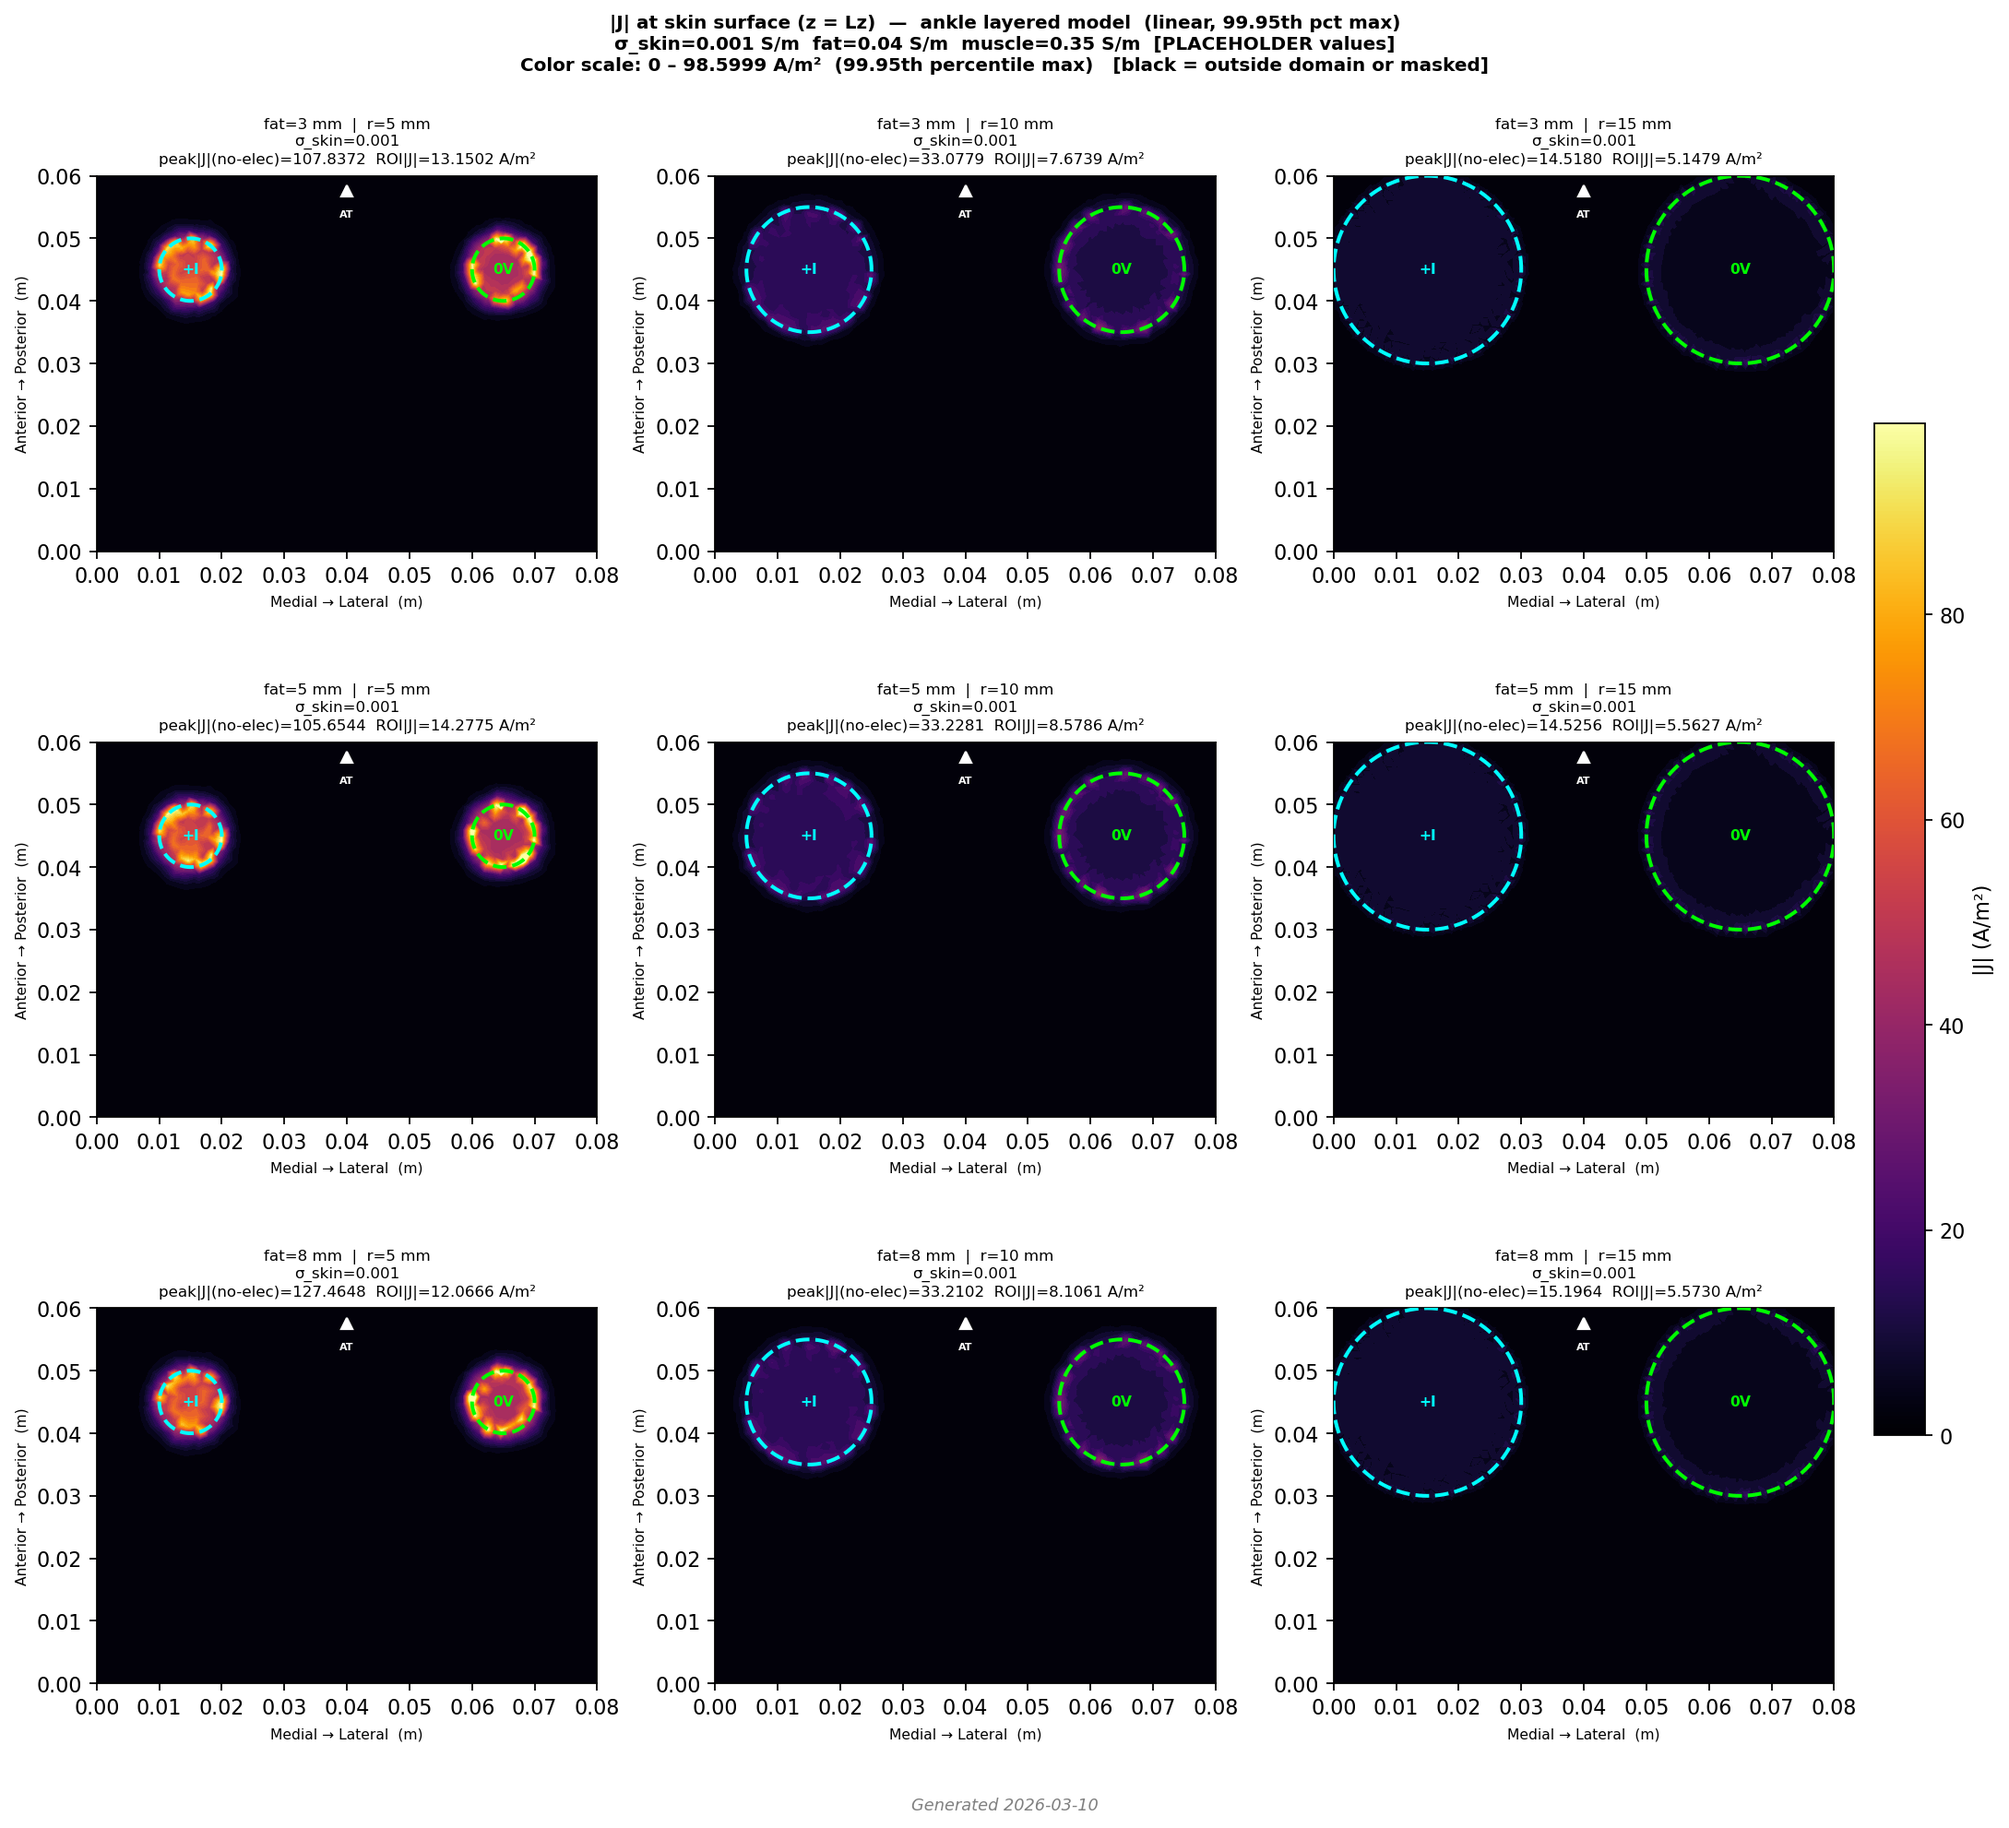
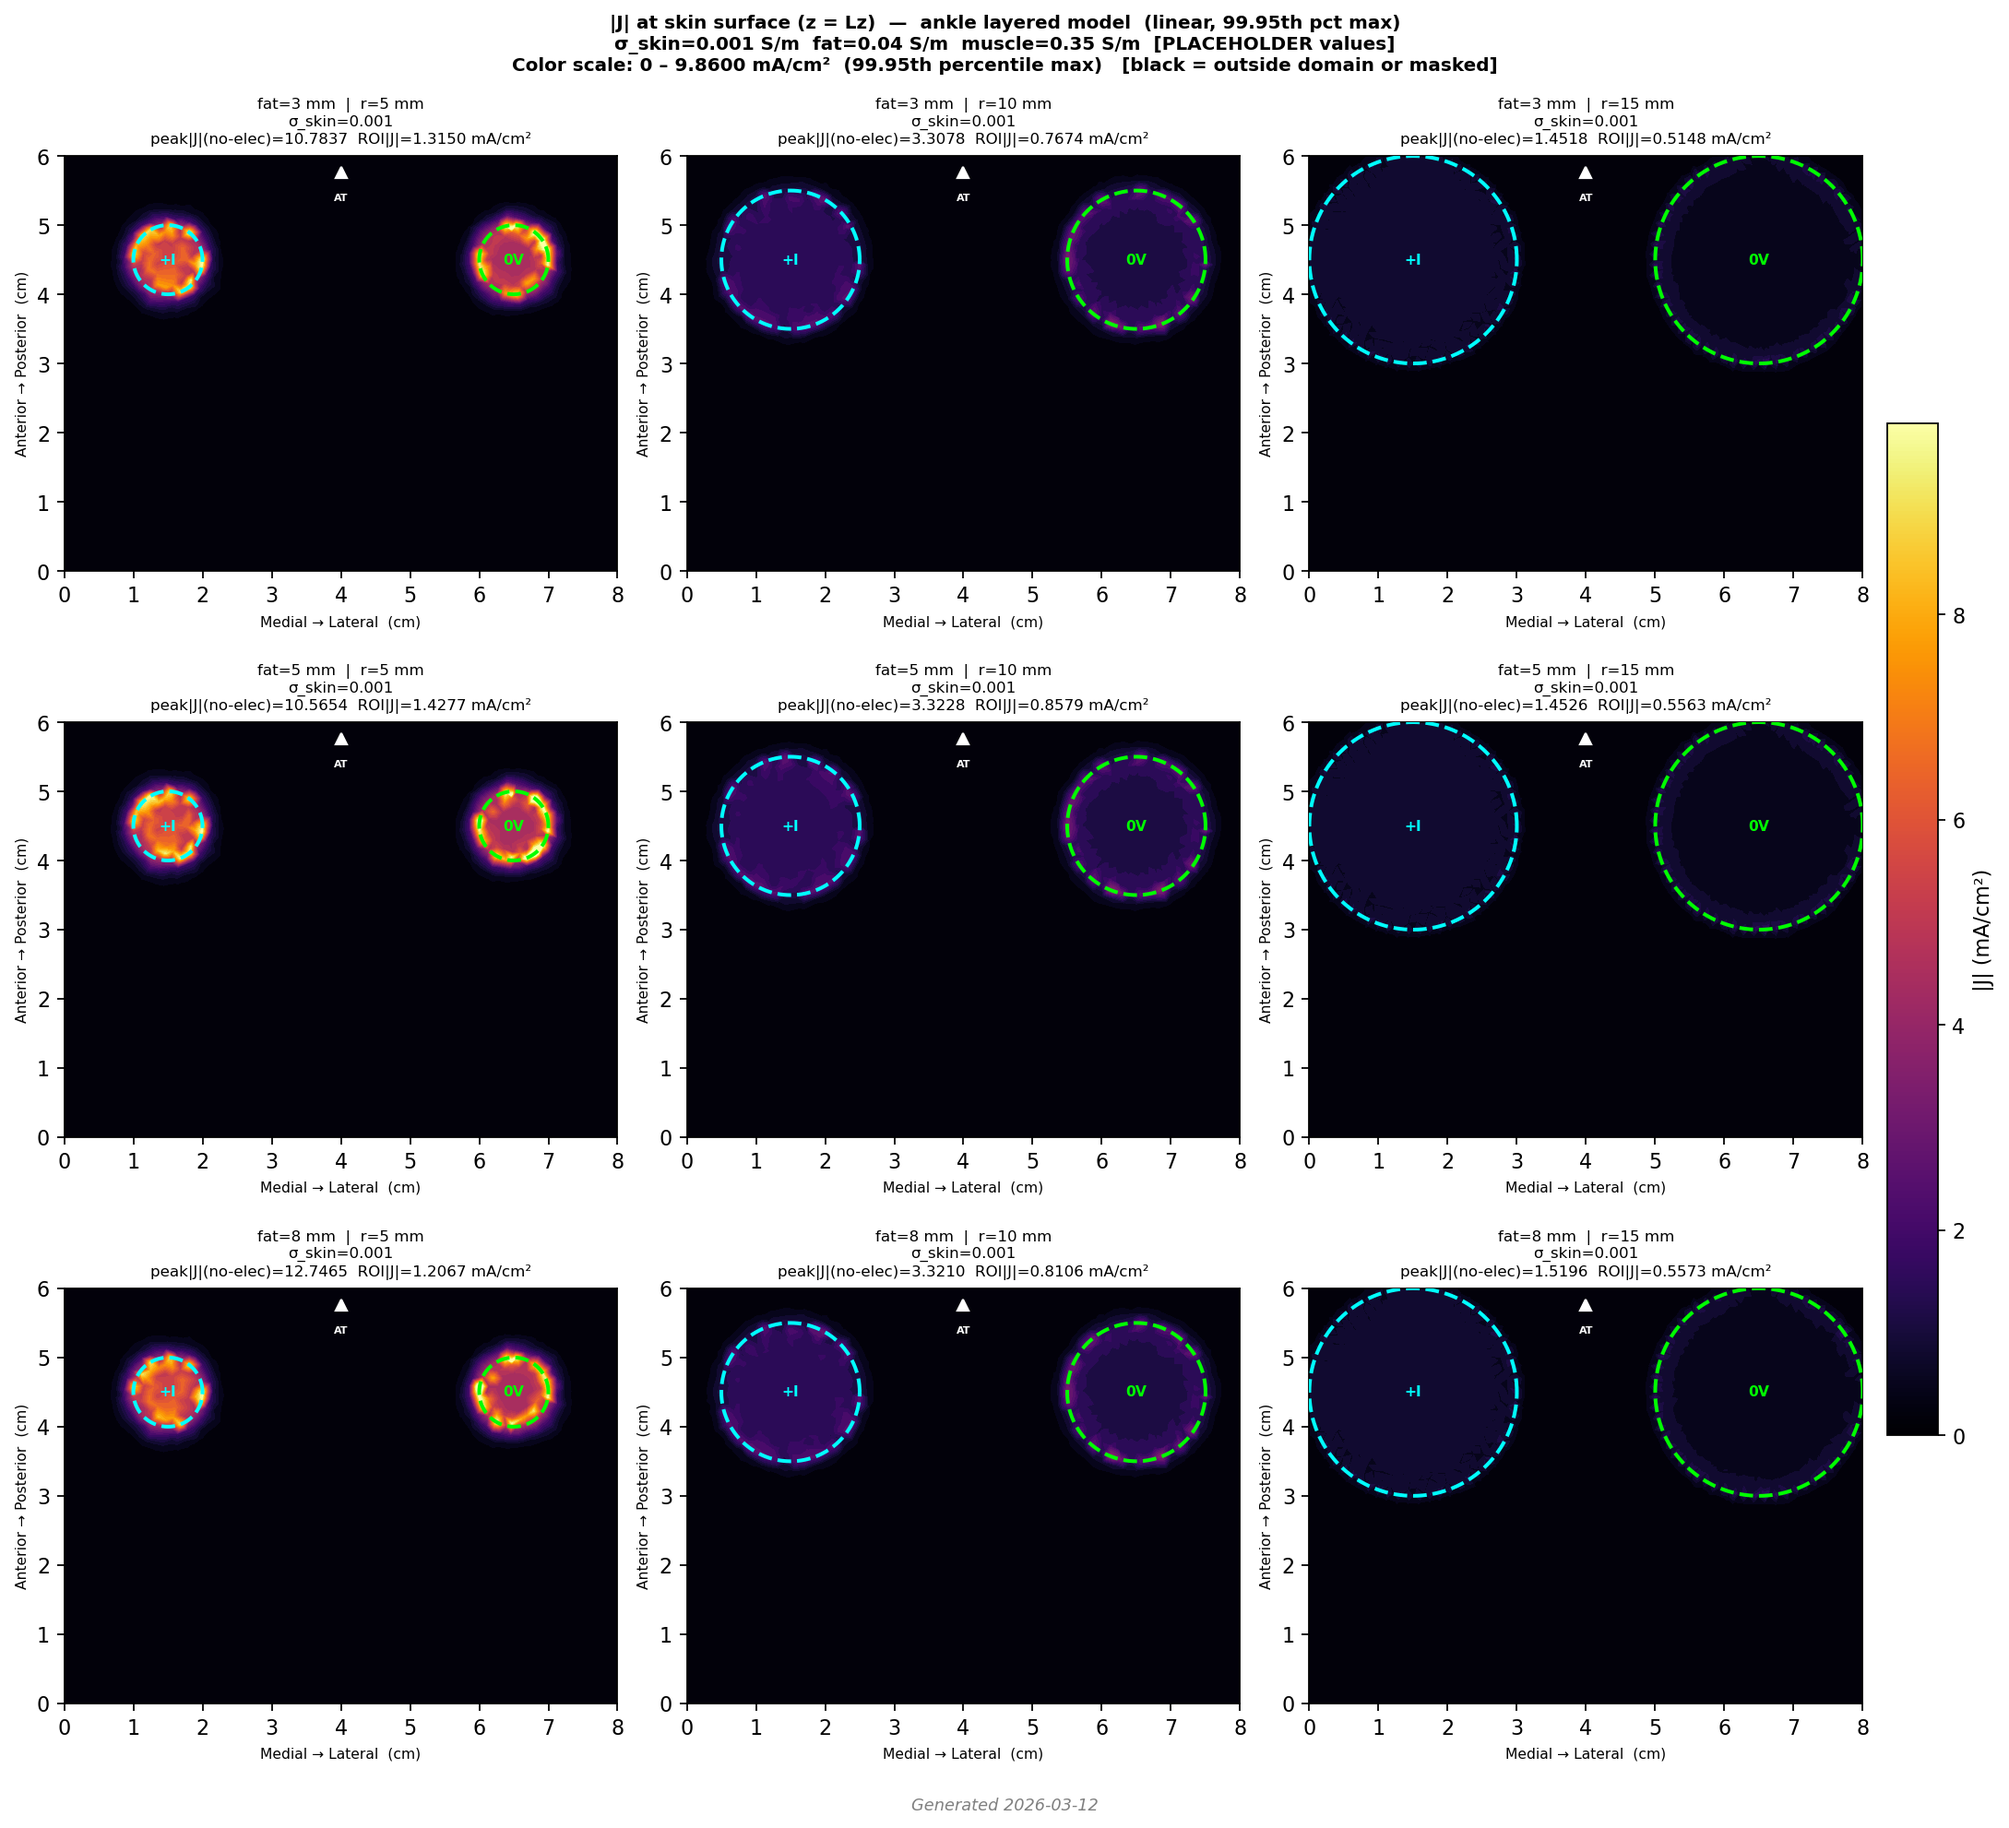
units: cm and mA throughout step03+step04 plots; sigma x-axis in step04
step03:
  - J surface maps, depth slice, model diagram: axes now in cm (not m)
  - J colorbar/titles: A/m² → mA/cm² (×0.1 scale applied to data)
  - summary_metrics: peak J panel in mA/cm²
step04:
  - pressure x-axis: show actual σ_c values in scientific notation, not p01-p15 labels

diff --git a/step03_ankle_layers/plot_layered_results.py b/step03_ankle_layers/plot_layered_results.py
@@ -126,7 +126,7 @@ def plot_J_surface_maps(summary, p):
         # Skin surface: top 20% of skin layer depth (handles uneven top surface)
         _t_skin = p["layers"]["t_skin"]
         mask = pts[:, 2] > (Lz - _t_skin) + _t_skin * 0.80
-        all_J.extend(Jmag[mask].tolist())
+        all_J.extend((Jmag[mask] * 0.1).tolist())  # A/m² → mA/cm²
         meshes[(row["t_fat_mm"], row["elec_r_mm"])] = (pts, Jmag, mask)
 
     if not all_J:
@@ -164,7 +164,7 @@ def plot_J_surface_maps(summary, p):
             f"|J| at skin surface (z = Lz)  —  ankle layered model  {title_suffix}\n"
             f"σ_skin={sig_skin} S/m  fat={p['conductivities']['sigma_fat']} S/m  "
             f"muscle={p['conductivities']['sigma_muscle']} S/m  [PLACEHOLDER values]\n"
-            f"Color scale: {vmin:.2g} – {vmax:.4f} A/m²  "
+            f"Color scale: {vmin:.2g} – {vmax:.4f} mA/cm²  "
             f"({vmax_pct:.2f}th percentile max)   [black = outside domain or masked]",
             fontsize=9, fontweight="bold"
         )
@@ -186,7 +186,7 @@ def plot_J_surface_maps(summary, p):
                 pts, Jmag, smask = meshes[key]
                 xp     = pts[smask, 0]
                 yp     = pts[smask, 1]
-                Jvals  = Jmag[smask].copy()
+                Jvals  = Jmag[smask].copy() * 0.1  # A/m² → mA/cm²
 
                 if mask_fn is not None:
                     r_m   = r_mm / 1000.0
@@ -279,9 +279,10 @@ def plot_J_surface_maps(summary, p):
 
                 ax.set_xlim(0, Lx); ax.set_ylim(0, Ly)
                 ax.set_aspect("equal")
-                # Anatomical direction labels
-                ax.set_xlabel("Medial → Lateral  (m)", fontsize=7)
-                ax.set_ylabel("Anterior → Posterior  (m)", fontsize=7)
+                ax.xaxis.set_major_formatter(plt.FuncFormatter(lambda v, _: f"{v*100:.0f}"))
+                ax.yaxis.set_major_formatter(plt.FuncFormatter(lambda v, _: f"{v*100:.0f}"))
+                ax.set_xlabel("Medial → Lateral  (cm)", fontsize=7)
+                ax.set_ylabel("Anterior → Posterior  (cm)", fontsize=7)
 
                 pk  = row.get("peak_J_skin_no_elec",
                               row.get("peak_J_skin", float("nan")))
@@ -289,13 +290,13 @@ def plot_J_surface_maps(summary, p):
                 ax.set_title(
                     f"fat={tfat:.0f} mm  |  r={r_mm:.0f} mm\n"
                     f"σ_skin={row.get('sigma_skin', sig_skin)}\n"
-                    f"peak|J|(no-elec)={pk:.4f}  ROI|J|={rj:.4f} A/m²",
+                    f"peak|J|(no-elec)={pk*0.1:.4f}  ROI|J|={rj*0.1:.4f} mA/cm²",
                     fontsize=7.5
                 )
 
         sm = plt.cm.ScalarMappable(cmap=_cmap, norm=norm)
         sm.set_array([])
-        fig.colorbar(sm, ax=axes, label="|J| (A/m²)", shrink=0.6, pad=0.01)
+        fig.colorbar(sm, ax=axes, label="|J| (mA/cm²)", shrink=0.6, pad=0.01)
 
         if footer:
             fig.text(0.5, -0.01, footer, ha="center", va="top",
@@ -366,8 +367,8 @@ def plot_summary_metrics(summary, p):
     raw_panels = [
         ("Skin peak |J| (no-electrode, comfort proxy)\n"
          "Smaller electrode → higher peak → more discomfort risk",
-         "peak_J_skin_no_elec",
-         "Peak |J| outside electrode (A/m²)"),
+         "peak_J_skin_no_elec_mAcm2",
+         "Peak |J| outside electrode (mA/cm²)"),
         (f"ROI mean |E|  (efficacy proxy)\n"
          f"Sphere r={roi_r_mm:.0f}mm at {z_tgt_mm:.0f}mm depth",
          "roi_mean_E",
@@ -431,6 +432,9 @@ def plot_summary_metrics(summary, p):
                 if key == "total_current_A_mA":
                     v_raw = r.get("total_current_A")
                     v = v_raw * 1e3 if (v_raw is not None and not (isinstance(v_raw, float) and np.isnan(v_raw))) else None
+                elif key == "peak_J_skin_no_elec_mAcm2":
+                    v_raw = r.get("peak_J_skin_no_elec")
+                    v = v_raw * 0.1 if (v_raw is not None and not (isinstance(v_raw, float) and np.isnan(v_raw))) else None
                 else:
                     v = r.get(key)
                 if v is None or (isinstance(v, float) and np.isnan(v)):
@@ -724,8 +728,10 @@ def plot_depth_slice_E_maps(summary, p):
 
             ax.set_xlim(0, Lx); ax.set_ylim(0, Ly)
             ax.set_aspect("equal")
-            ax.set_xlabel("Medial → Lateral  (m)", fontsize=7)
-            ax.set_ylabel("Anterior → Posterior  (m)", fontsize=7)
+            ax.xaxis.set_major_formatter(plt.FuncFormatter(lambda v, _: f"{v*100:.0f}"))
+            ax.yaxis.set_major_formatter(plt.FuncFormatter(lambda v, _: f"{v*100:.0f}"))
+            ax.set_xlabel("Medial → Lateral  (cm)", fontsize=7)
+            ax.set_ylabel("Anterior → Posterior  (cm)", fontsize=7)
             re_val = row.get("roi_mean_E", float("nan"))
             ax.set_title(
                 f"fat={tfat:.0f} mm  |  r={r_mm:.0f} mm\n"
@@ -894,8 +900,10 @@ def plot_model_diagram(p, summary=None):
 
     ax_side.set_xlim(-0.004, Lx + 0.022)
     ax_side.set_ylim(-0.003, Lz + t_contact + 0.010)
-    ax_side.set_xlabel("Medial → Lateral  (m)", color=TC, fontsize=9)
-    ax_side.set_ylabel("Depth z  (m,  0=base → Lz=skin top)", color=TC, fontsize=9)
+    ax_side.xaxis.set_major_formatter(plt.FuncFormatter(lambda v, _: f"{v*100:.0f}"))
+    ax_side.yaxis.set_major_formatter(plt.FuncFormatter(lambda v, _: f"{v*100:.0f}"))
+    ax_side.set_xlabel("Medial → Lateral  (cm)", color=TC, fontsize=9)
+    ax_side.set_ylabel("Depth z  (cm,  0=base → Lz=skin top)", color=TC, fontsize=9)
     ax_side.set_title(
         "ANATOMY (side view, x–z plane)\n"
         "Cyan/lime arrows = current IN / OUT of tissue",
@@ -965,8 +973,10 @@ def plot_model_diagram(p, summary=None):
     ax_top.set_xlim(-0.002, Lx+0.002)
     ax_top.set_ylim(-0.002, Ly+0.002)
     ax_top.set_aspect("equal")
-    ax_top.set_xlabel("Medial → Lateral  (m)", color=TC, fontsize=9)
-    ax_top.set_ylabel("Anterior → Posterior  (m)", color=TC, fontsize=9)
+    ax_top.xaxis.set_major_formatter(plt.FuncFormatter(lambda v, _: f"{v*100:.0f}"))
+    ax_top.yaxis.set_major_formatter(plt.FuncFormatter(lambda v, _: f"{v*100:.0f}"))
+    ax_top.set_xlabel("Medial → Lateral  (cm)", color=TC, fontsize=9)
+    ax_top.set_ylabel("Anterior → Posterior  (cm)", color=TC, fontsize=9)
     ax_top.set_title(
         f"SKIN SURFACE (top view, z = {Lz*1000:.0f} mm)\n"
         f"Dashed circles = current spreading pattern  |  r = {r_mid_mm:.0f} mm",

diff --git a/step04_pressure/plot_pressure_results.py b/step04_pressure/plot_pressure_results.py
@@ -50,10 +50,10 @@ def main():
     charge_limit      = 1.0     # mC/cm² — irreversible tissue damage
     nerve_thresh_E    = 10.0    # V/m — peripheral nerve activation threshold (literature)
 
-    # x-tick positions: every other label to avoid crowding
+    # x-tick positions: every other point to avoid crowding; show sigma values
     tick_idx  = list(range(0, len(x), 2))
     x_ticks   = [x[i] for i in tick_idx]
-    x_labels  = [labels[i] for i in tick_idx]
+    x_labels  = [f"{sigma_c[i]:.1e}" for i in tick_idx]
 
     fig, axes = plt.subplots(2, 2, figsize=(13, 9))
     fig.patch.set_facecolor("black")
